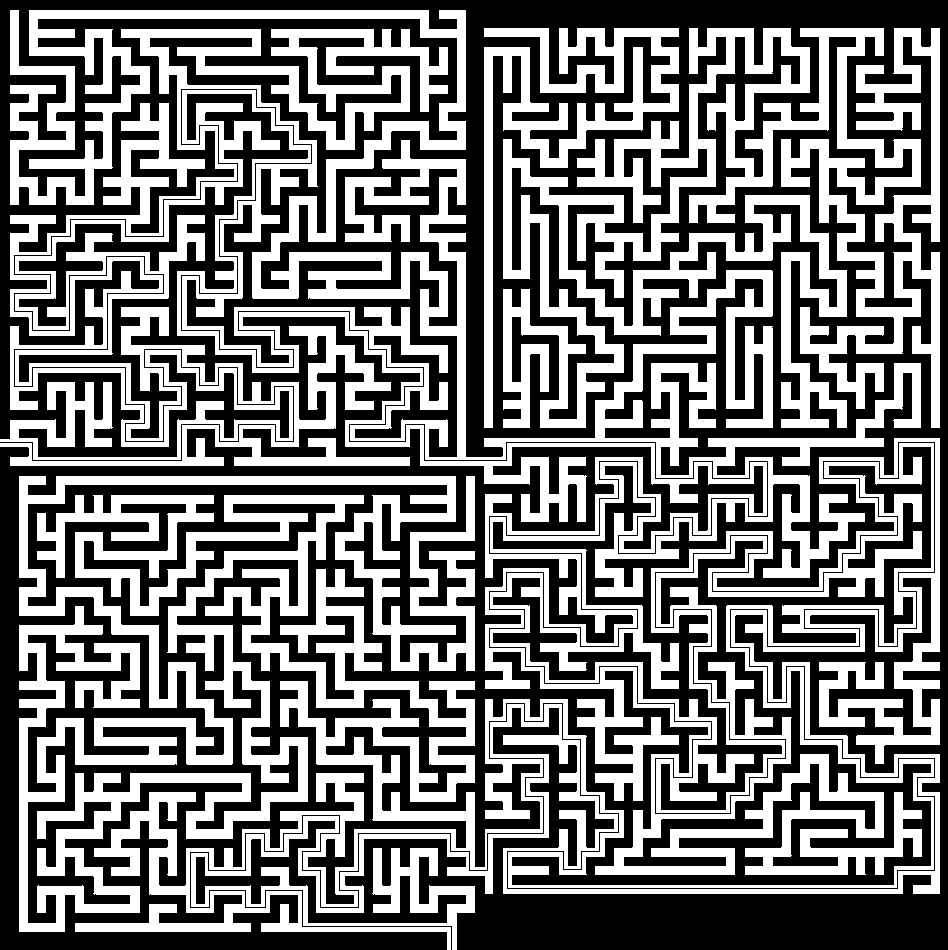
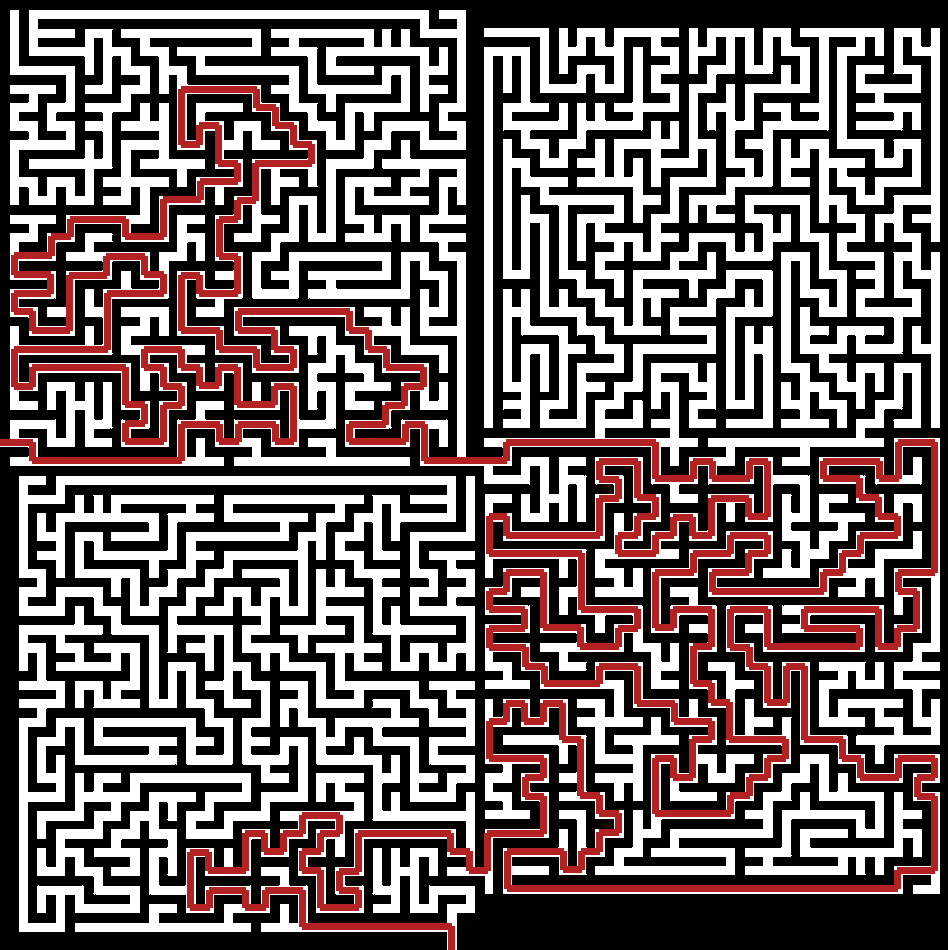
color, linewidth, checkEntry efficiency

diff --git a/main.py b/main.py
@@ -355,7 +355,6 @@ def upSequence(x,y):
 ###Path Diversion Functions
 
 def leftDivergeUp(x,y,newx):
-    width = 0
     distance = x - newx
     distance -= (halfspace+(halfspace/3))
     i = 1
@@ -377,7 +376,6 @@ def leftDivergeUp(x,y,newx):
     else:
         return False, listdivs
 def leftDivergeDown(x,y,newx):
-    width = 0
     distance = x - newx
     distance -= (halfspace+(halfspace/4))
     i = 1
@@ -399,7 +397,6 @@ def leftDivergeDown(x,y,newx):
         return False, listdivs
         
 def rightDivergeUp(x,y,newx):
-    width = 0
     distance = newx - x
     i = 1
     divpoint = 0
@@ -421,7 +418,6 @@ def rightDivergeUp(x,y,newx):
         return False, listdivs
 
 def rightDivergeDown(x,y,newx):
-    width = 0
     distance = newx - x
     distance -= (halfspace+(halfspace/3))
     i = 1
@@ -444,7 +440,6 @@ def rightDivergeDown(x,y,newx):
         return False, listdivs
 
 def downDivergeLeft(x,y,newy):
-    width = 0
     distance = newy - y
     i = 1
     divpoint = 0
@@ -466,7 +461,6 @@ def downDivergeLeft(x,y,newy):
         return False, listdivs
 
 def downDivergeRight(x,y,newy):
-    width = 0
     distance = newy - y
     i = 1
     divpoint = 0
@@ -488,8 +482,6 @@ def downDivergeRight(x,y,newy):
         return False, listdivs
 
 def upDivergeLeft(x,y,newy):
-    #y = roundDown(y)
-    width = 0
     distance = y - newy
     i = 1
     divpoint = 0
@@ -521,8 +513,6 @@ def upDivergeLeft(x,y,newy):
     else:
         return False, listdivs
 def upDivergeRight(x,y,newy):
-    #y = roundDown(y)
-    width = 0
     distance = y - newy
     i = 1
     divpoint = 0
@@ -691,17 +681,19 @@ def main(filename):
     global count
     width, height = maze.size
     
-    print("\n\n-------------STARTING MAZE SOLVER-------------\n")
-    print("                 ...........                 \n")
-    
-    checkEntry(filename)
+
+    checkOutput = checkEntry(filename)
 
     global whitecount
-    whitecount = checkEntry(filename)[0]
+    whitecount = checkOutput[0]
+    if whitecount == 2:
+        print("Maze path width size (2px) incompatible.")
+        return False
+
     global startDir
-    startDir = checkEntry(filename)[1]
+    startDir = checkOutput[1]
     global temp
-    temp = checkEntry(filename)[2]
+    temp = checkOutput[2]
 
     global startpnt
     startpnt = temp - (whitecount/2)
@@ -709,20 +701,32 @@ def main(filename):
     pathwidth = (whitecount)
     global halfspace
     halfspace = (whitecount/2)
+
+    print("\n\n-------------STARTING MAZE SOLVER-------------\n")
+    print("                 ...........                 \n")
     
-    x = checkEntry(filename)[3] 
-    y = checkEntry(filename)[4]
+    x = checkOutput[3] 
+    y = checkOutput[4]
     
     if (halfspace % 2) is not 0:
         halfspace = halfspace-0.5
     if (startpnt % 2) is not 0:
         startpnt = startpnt+0.5
-    
+        
     if (pathFind(x,y,startDir)) == True:
         maze = maze.convert('RGBA')
         draw = ImageDraw.Draw(maze,'RGBA')
+        if pathwidth > 4:
+            linewidth = pathwidth*0.7
+            linewidth = roundUp(linewidth)
+        elif pathwidth > 1:
+            linewidth = pathwidth/2
+            linewidth = roundDown(linewidth)
+        else:
+            linewidth = 1
+        linewidth = int(linewidth)
         for i in range(len(vertexList)-1):
-            draw.line((vertexList[i][0],vertexList[i][1]) + (vertexList[i+1][0],vertexList[i+1][1]),fill="black")
+            draw.line((vertexList[i][0],vertexList[i][1]) + (vertexList[i+1][0],vertexList[i+1][1]),fill="firebrick",width=linewidth)
         solvedname = basefilename + ' solved.png'
         maze.save(solvedname, 'PNG')
         print("              Final path found.\n")
@@ -733,7 +737,8 @@ def main(filename):
         #print("NCount:",count)
         count = 0
         print("Check file:",solvedname)
-        directory = "C:/Users/User/Documents/Ibrahim/Machine Learning/MazeSolver/" + solvedname
+        directory = os.path.dirname(os.path.realpath(solvedname))
+        directory = directory + "\\" + solvedname
         openfile = input("Open file? (yes = 1/no = 0) ")
         if openfile == '1':
             os.startfile(directory)
